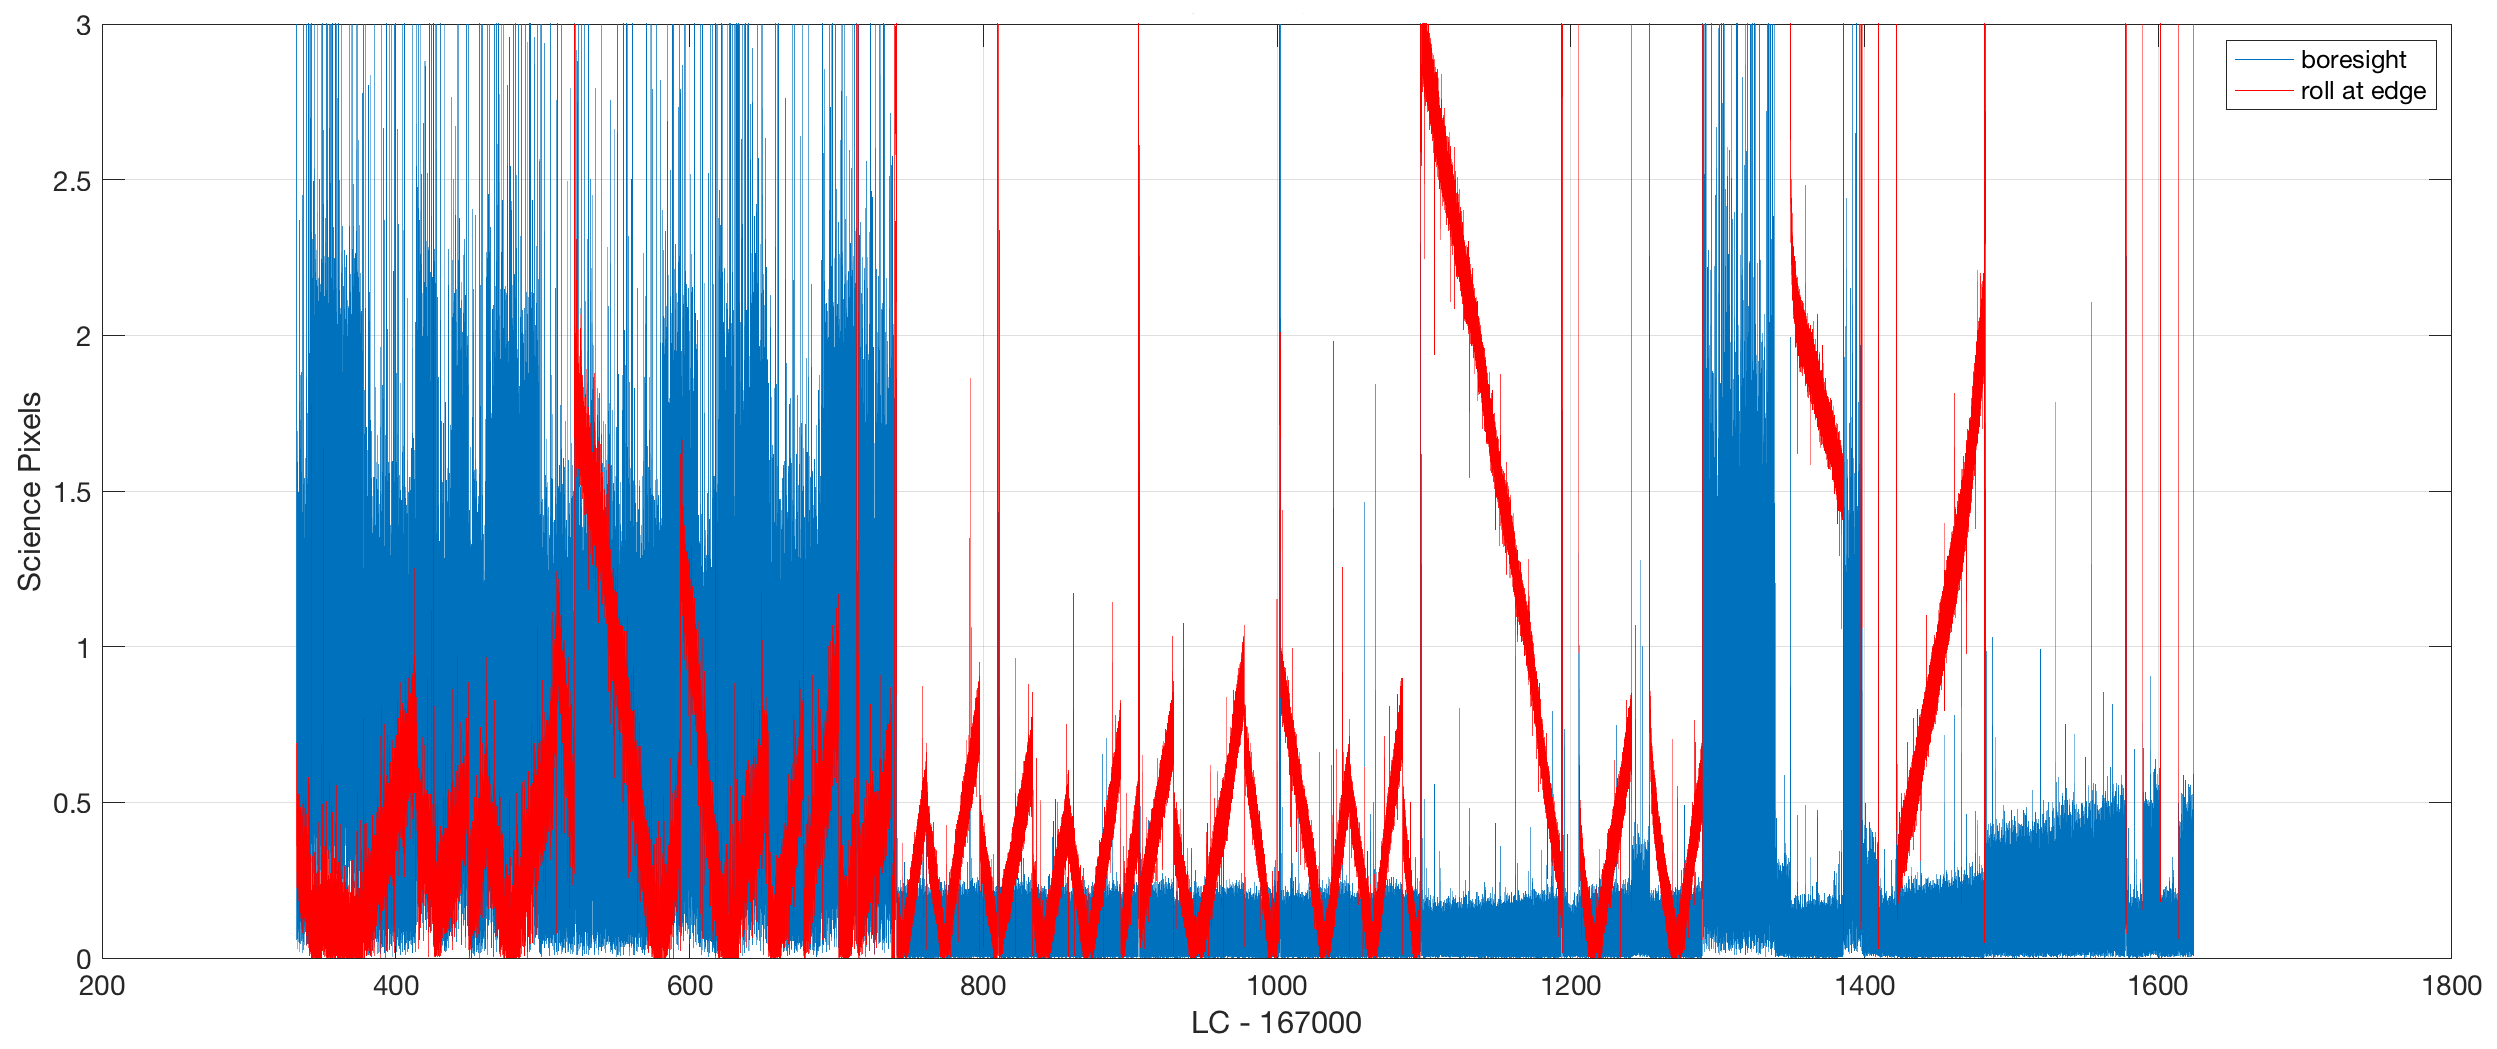
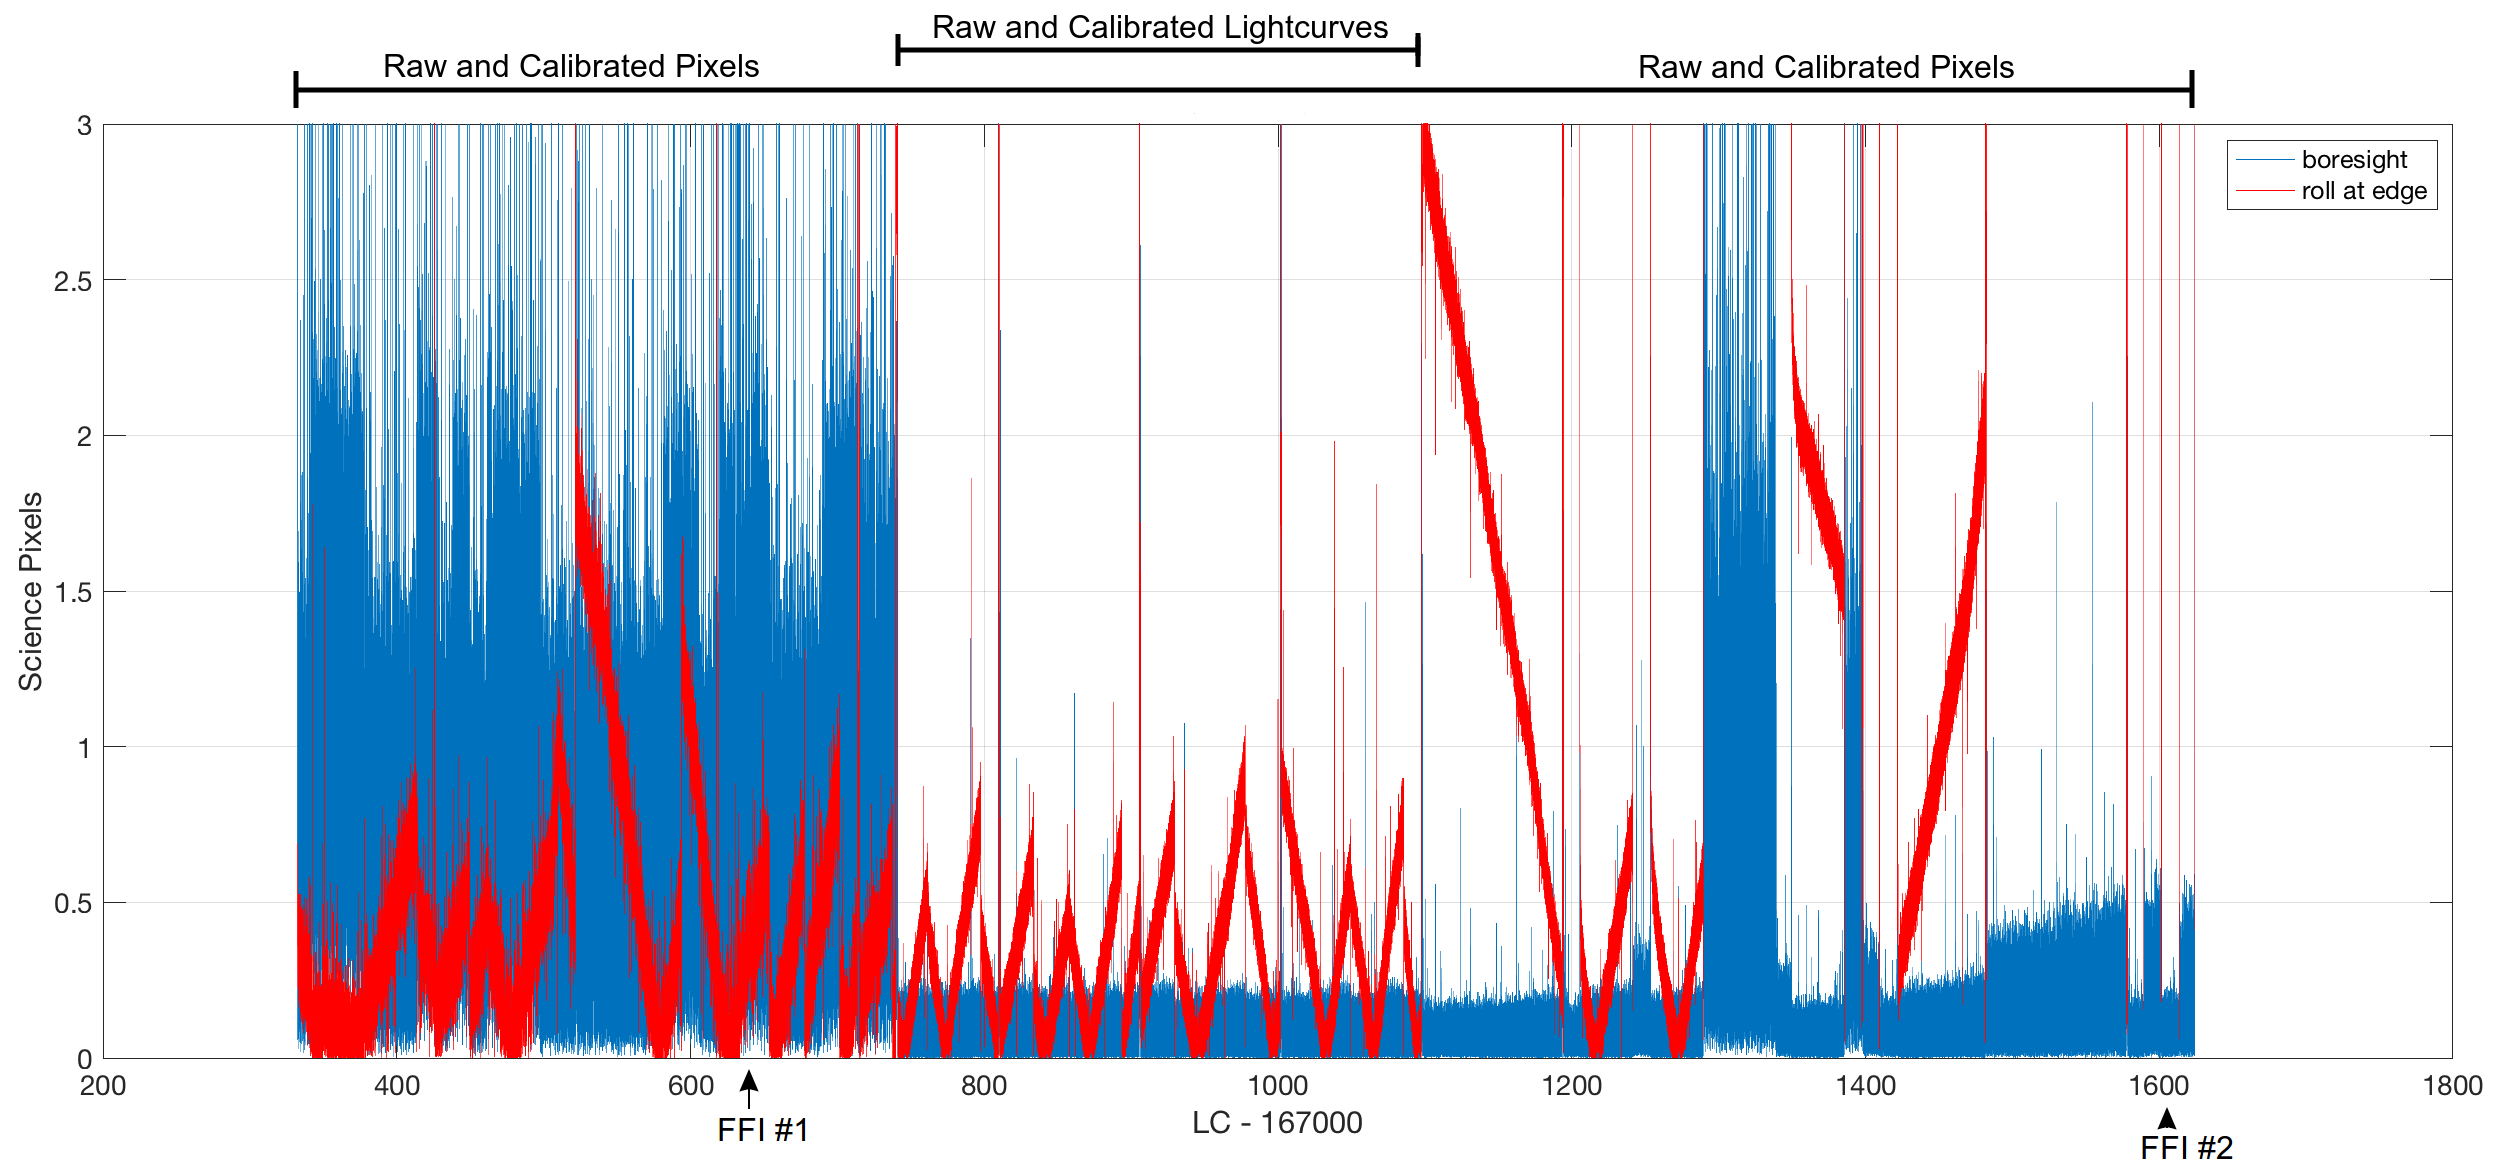
Pointing figures and text

diff --git a/content/pages/k2-observing/k2-data-release-notes.md b/content/pages/k2-observing/k2-data-release-notes.md
@@ -36,14 +36,14 @@ including information on field pointing, target selection, observation times and
 
 <b><i>First cadence</i></b>
 <ul>
-<li>Start Time: 2018-05-13 00:44:43 UTC</li>
+<li>Start Time: 2018-08-30 15:17:05 UTC</li>
 <li>Long Cadence Number: 167333</li>
 <li>Short Cadence Number: 5008450</li>
 </ul>
 NEED TO UPDATE TIMESTAMPS!!!!
 <b><i>Last cadence</i></b>
 <ul>
-<li>End Time: 2018-07-02 21:51:26 UTC</li>
+<li>End Time: 2018-09-26 00:23:59 UTC</li>
 <li>Long Cadence Number: 168623<sup>†</sup></li>
 <li>Short Cadence Number: 5047179</li>
 </ul>
@@ -114,8 +114,9 @@ Neptune was also observed in short cadence approximately 20 days on each side of
 
 ***Erratic Pointing Due to Fuel Exhaustion and End of Flight***
 
-Due to an anomalous drop in fuel pressure, the Kepler team [paused the science observations for K2 Campaign 18](kepler-fuel-status-update-faq.html) about 50 days into the campaign and then a month later [successfully downloaded the C18 data](k2-campaign-18-downlink-successful.html). At the start of Campaign 19 the spacecraft configuration was [modified in order to adapt to a change in thruster performance](k2-campaign-19-status-update.html). Observations for C19 were collected for a about a month, at which point the Kepler team received data showing that the spacecraft no longer had sufficient remaining fuel to point precisely enough to gather useful scientific data, and [observations were again paused](k2-campaign-19-ended-to-downlink-data.html) and then later [successfully downloaded](k2-campaign-19-raw-data-available.html).
+Due to an anomalous drop in fuel pressure, the Kepler team [paused the science observations for K2 Campaign 18](kepler-fuel-status-update-faq.html) about 50 days into the campaign and then a month later [successfully downloaded the C18 data](k2-campaign-18-downlink-successful.html). At the start of Campaign 19 the spacecraft configuration was [modified in order to adapt to a change in thruster performance](k2-campaign-19-status-update.html) due to the low fuel pressure. Observations for C19 were collected for about a month, at which point the Kepler team received data showing that the spacecraft no longer had sufficient remaining fuel to point precisely enough to gather useful scientific data, and [observations were again paused](k2-campaign-19-ended-to-downlink-data.html) and then later [successfully downloaded](k2-campaign-19-raw-data-available.html). While [an attempt was made to start Campaign 20](kepler-spacecraft-update.html), without sufficient fuel [end-of-flight was declared the spacecraft retired] (https://www.nasa.gov/press-release/nasa-retires-kepler-space-telescope-passes-planet-hunting-torch). Thus Campaign 19 is the final campaign for which scientific data is available.
 
+Figure C19-Pointing shows the pointing performance of the spacecraft over the duration of Campaign 19 via the observed deviation of targets from their expected location as a function of long cadence number &mdash; the blue line shows the deviation affecting all targets from displacement of the spacecraft boresight, while the red line shows the maximum deviation at the edge of the field of view due to the roll angle. As can be seen, for the first ~8.5 days, from long cadence 167333&ndash;167742 (short cadences 5008450&ndash;5020749), the spacecraft boresight had significant deviation from nominal, and a result nearly all targets were completely outside their observed pixel stamps &mdash; it is not expected that useable photometric data can be obtained for this time region for the pre-selected Campagin 19 targets. From long cadence 167743&ndash;168097 (short cadences 5020750&ndash;5031399) the pointing due to boresight and roll was nominal compared to other K2 campaigns, and thus this ~7 day region should provide nominal K2 data. From long cadence 168098&ndash;168623 (short cadence 5031400&ndash;5047179) the boresight and roll fluctuated erratically &mdash; the 'well-behaved' portions of this ~11 day should provide useable photometric data for most targets with careful analysis.
 
 <div class="thumbnail" style="width: 100%;">
 <div class="caption">
@@ -128,17 +129,15 @@ Due to an anomalous drop in fuel pressure, the Kepler team [paused the science o
 </div>
 
 
-Mark FFIs on plot
-
 <br>
 
 ***Pointing and Roll Performance***
 
-The C18 pointing and roll behavior are well within the limits of that seen in other K2 campaigns, with no degradation seen due to potentially low fuel levels.
-The pipeline-calculated maximum distance between the derived and nominal positions for any target (the "maximum attitude residual", or MAR)
-for C18 is less than 1.9 pixels for nearly the entire campaign, well under the 3-pixel limit accommodated by the aperture halos.
+Examining only the central ~7 days of continuously nominal pointing (long cadences 167743&ndash;168097; short cadences 5020750&ndash;5031399), the C19 pointing and roll behavior are higher than other K2 campaigns. The pipeline-calculated maximum distance between the derived and nominal positions for any target (the "maximum attitude residual", or MAR) for C19 in this time period is under 4.0 pixels, and under 3.5 for most of the ~7 day duration &mdash; given the 3-pixel limit accommodated by the aperture halos this eans most targets are expected to remain in their apertures during this ~7 day duration, but targets close to the edge of the field-of-view may have significant flux fall outside thier observed apertures.
 
-The exception is about a dozen long cadences just prior to BKJD 3432 / MJD 58264.5, where the pointing temporarily exceeded 4 pixels, as clearly seen in the plots below. Users are encouraged to discard long cadences 162613 &ndash; 162627 (short cadences 4866897 &ndash; 4867246) due to this pointing excursion. These cadences are flagged using QUALITY flag bit #3. Similarly, while not visible in the plots below, the very last long cadence of the campaign, 164458 (short cadences 4922216 &ndash; 4922230) had a very large pointing excursion and are also flagged using QUALITY flag bit #3.
+
+
+Users are encouraged to discard long cadences 162613 &ndash; 162627 (short cadences 4866897 &ndash; 4867246) due to this pointing excursion. These cadences are flagged using QUALITY flag bit #3. Similarly, while not visible in the plots below, the very last long cadence of the campaign, 164458 (short cadences 4922216 &ndash; 4922230) had a very large pointing excursion and are also flagged using QUALITY flag bit #3.
 
 As mentioned in the C14 release notes, a change in the on-board fine point fault logging threshold
 results in additional cadences being flagged as "Spacecraft is not in fine point"
@@ -147,24 +146,59 @@ users look to QUALITY flag bit #3 as an accurate indicator of poor spacecraft po
 
 <div class="thumbnail" style="width: 50%;display: inline-block;">
 <div class="caption">
-<i>Figure C18-Roll-Error: the roll-error between the photometrically derived attitude (PAD) and the nominal pointing plotted against time for C18.</i>
-<a href="images/release-notes/c18/c18_pad_pdq_attitude_roll.png">
-<img src="images/release-notes/c18/c18_pad_pdq_attitude_roll.png" class="img-responsive" alt="Pipeline measured roll error for C18.">
+<i>Figure C19-Roll-Error: the roll-error between the photometrically derived attitude (PAD) and the nominal pointing plotted against time for C19.</i>
+<a href="images/release-notes/c19/c19_pad_pdq_attitude_roll.png">
+<img src="images/release-notes/c19/c19_pad_pdq_attitude_roll.png" class="img-responsive" alt="Pipeline measured roll error for C19.">
 </a>
 </div>
 </div>
 
 <div class="thumbnail" style="width: 48%;display: inline-block;">
 <div class="caption">
-<i>Figure C18-MAR: the maximum distance between the photometrically derived attitude (PAD) and the nominal position plotted against time for C18.</i>
-<a href="images/release-notes/c18/c18_pad_pdq_attitude_mar.png">
-<img src="images/release-notes/c18/c18_pad_pdq_attitude_mar.png" class="img-responsive" alt="Maximum residual of the C18 attitude measured with PAD and PDQ.">
+<i>Figure C19-MAR: the maximum distance between the photometrically derived attitude (PAD) and the nominal position plotted against time for C19.</i>
+<a href="images/release-notes/c19/c19_pad_pdq_attitude_mar.png">
+<img src="images/release-notes/c19/c19_pad_pdq_attitude_mar.png" class="img-responsive" alt="Maximum residual of the C19 attitude measured with PAD and PDQ.">
 </a>
 </div>
 </div>
 
 <br>
 
+
+
+
+
+After investigation and discussion, we'll go with 167333-168623 for CAL and PA.
+
+---This is the full cadence range, except for the very last cadence, 168624, which has severe issues due to a pointing event occurring during exposure.
+
+---The first ~10 days do not have targets in their designated apertures, but may yield valuable data for users, and should cause no ill effects with new parameter settings (Dynablack off and ignore k2GapIfNotFinePntData=true).
+
+---The last ~100 cadences show excess roll motion, but we confirmed cross-boresight is stable until the second-to-last cadence (168623), and thus will provide valuable data for many targets, especially those towards center of FoV, like Trappist-1, and any PA-COA issues should be mitigated with new parameter k2GapIfNotFinePntData=true.
+
+---This range selection results in 167978 being the middle cadence, which is a good cadence (no pointing anomalies evident, Trappist-1 image looks great), as is +/-1 cadences from it.
+
+
+-The corresponding short cadence range is 5008450--5047179.
+
+--- I.e., the exposure start time of the first short cadence, 5008450, is the same as the first long cadence, 167333, and the exposure finish time of the final short cadence, 5047179, is the same as the final long cadence, 168623.
+
+--- 5008450 + 30*(168623 - 167333) + 29 = 5047179
+
+PDC and PPA ranges will remain:
+
+167743 -- 168097 for long cadence
+and
+5020750 -- 5031399 for short cadence
+
+corresponding to the central ~7 days of stable pointing. (We expect issues with PDC should the range be extended to include the intermittent data gaps due to pointing excursions toward the end of the campaign.) '
+
+
+
+
+
+DATE-OBS= '2018-09-07T23:51:40.093Z' / TSTART as UTC calendar date              
+DATE-END= '2018-09-23T02:45:42.877Z' / TSTOP as UTC calendar date      
 
 
 
